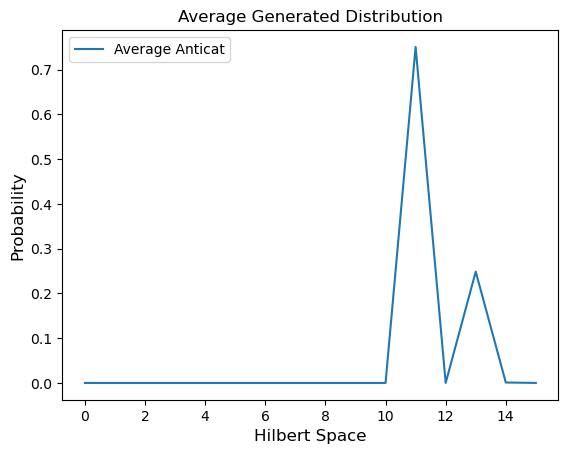
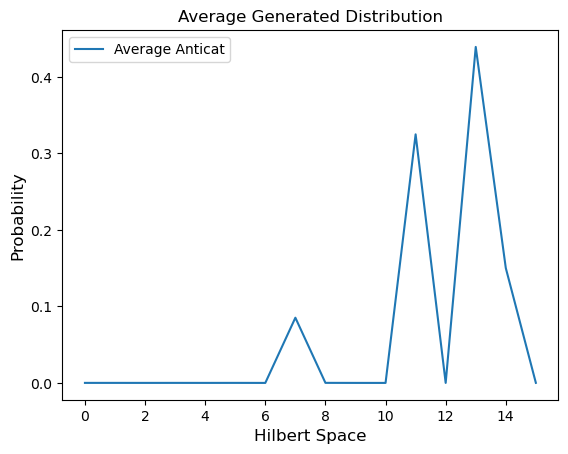
corrected generated cat

diff --git a/qcbm_project/cat_anticat/vqc_decoder_model_and_circuit.py b/qcbm_project/cat_anticat/vqc_decoder_model_and_circuit.py
@@ -8,8 +8,8 @@ dev = qml.device("default.qubit",wires=total_qubits)
 def qcbm_circuit(params,total_qubits=total_qubits):
     
     rz_params = params[:total_qubits]
-    ising_params1 = params[total_qubits:2*total_qubits-1]
-    ising_params2 = params[2*total_qubits-1:]
+    ising_params1 = params[total_qubits:2*total_qubits]
+    ising_params2 = params[2*total_qubits:]
     
     
     for i in range(total_qubits):
@@ -20,6 +20,7 @@ def qcbm_circuit(params,total_qubits=total_qubits):
     for i in range(total_qubits-1):
         qml.IsingZZ(ising_params2[i],wires=[i,i+1])
     qml.IsingZZ(ising_params2[-1],wires=[total_qubits-1,0])
+
     
     
     
